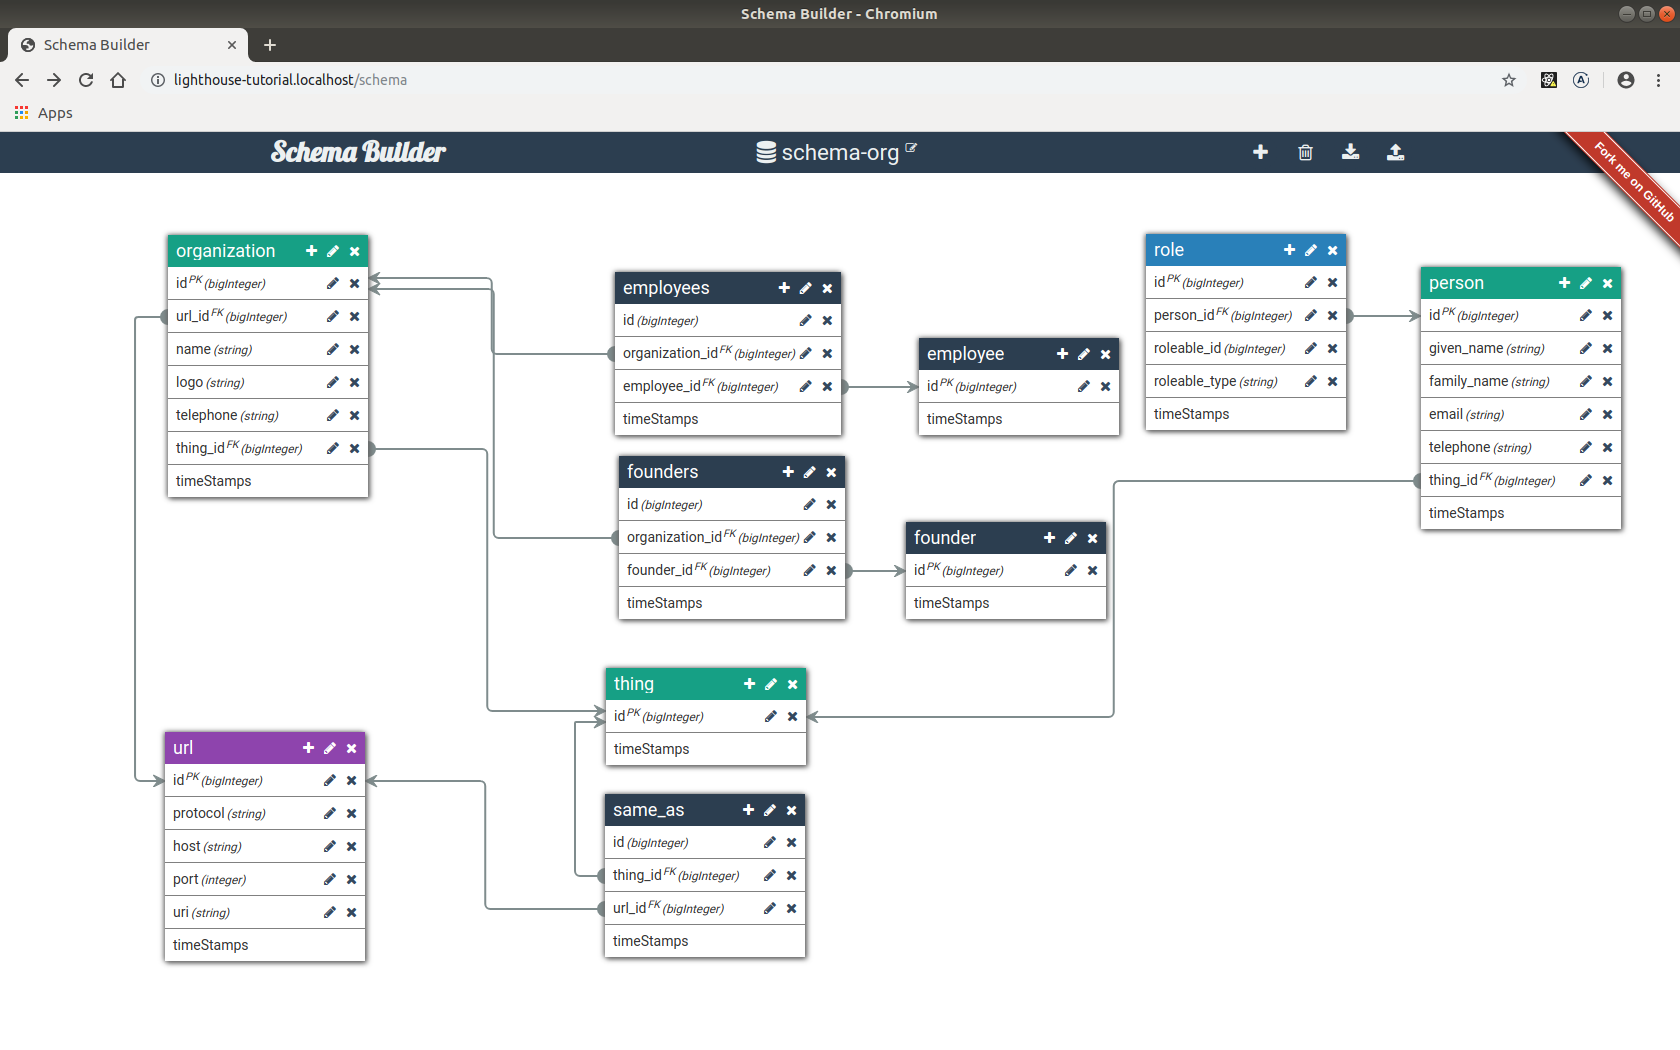
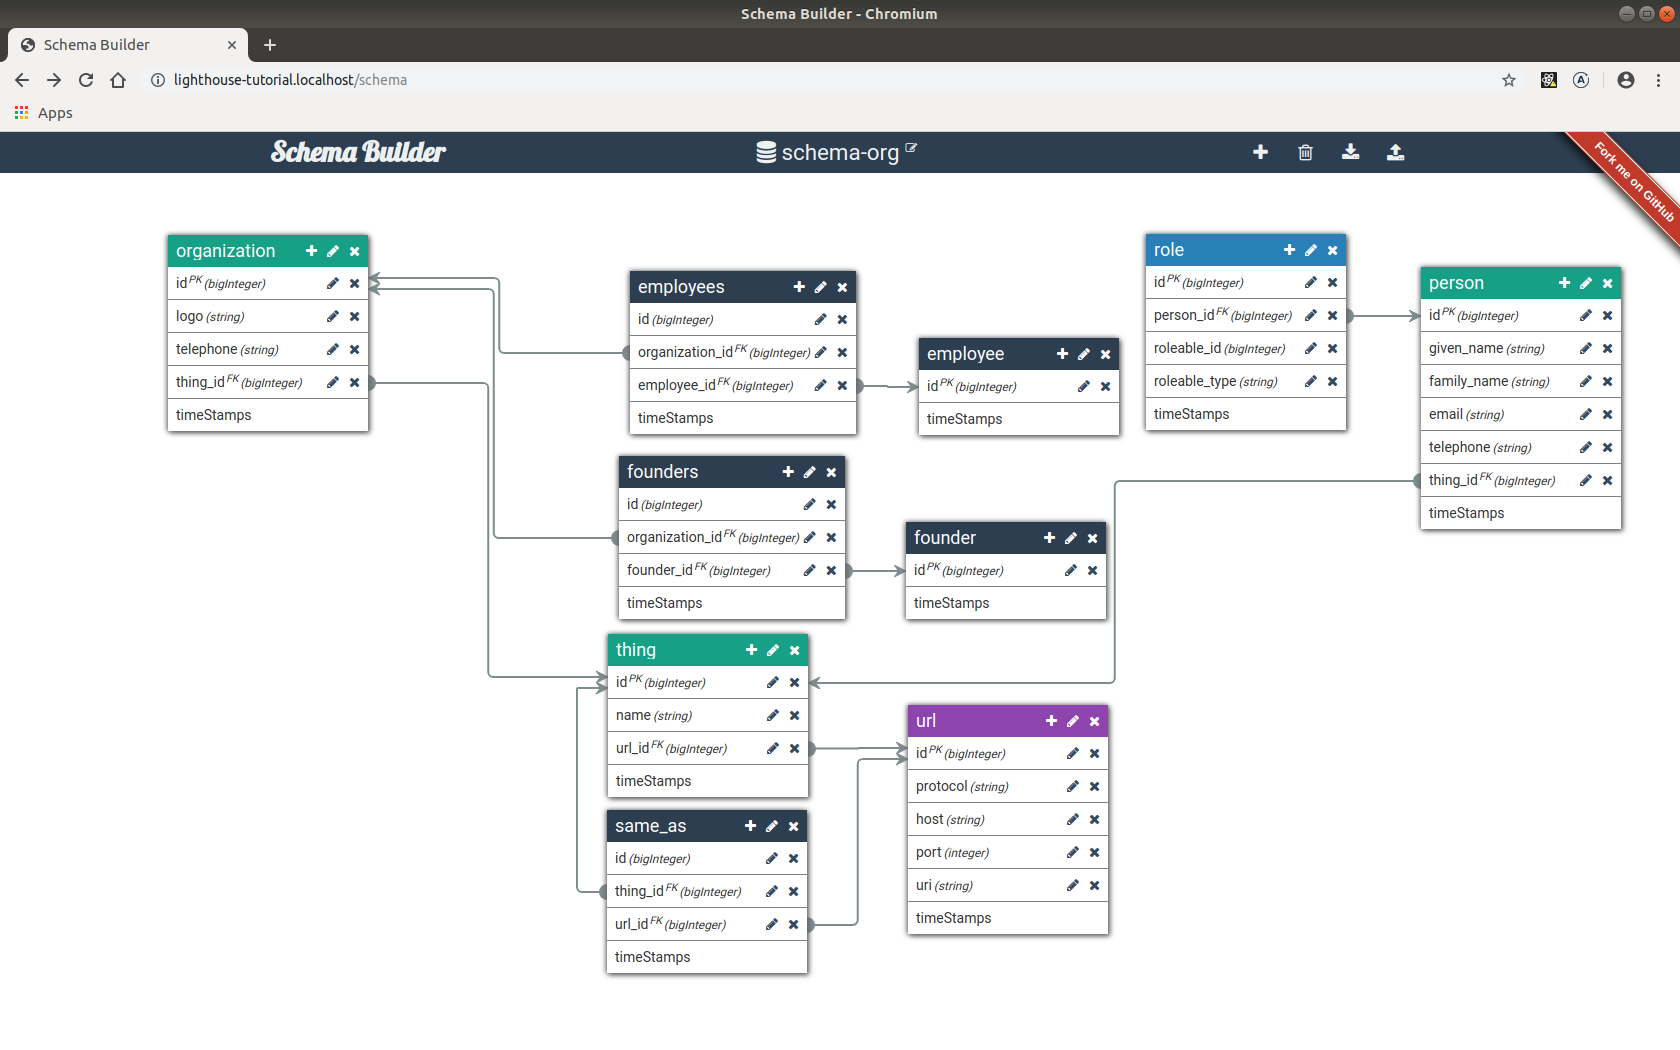
name and url move to thing

diff --git a/app/Models/Organization.php b/app/Models/Organization.php
@@ -19,13 +19,13 @@ class Organization extends \App\Models\Base\Organization
 
 	public function getSchemaOrgSchemaAttribute()
 	{
-		$url = $this->url ? $this->url->name : null;
+		$url = $this->thing->url ? $this->thing->url->name : null;
 
 		$organization = Schema::Organization()
 			->setProperty('url', isset($url) ? $url : null)
 			->sameAs($this->getSchemaOrgsameAs())
 			->setProperty('@id', isset($url) ? $url . '#organization' : null)
-			->name($this->name)
+			->name($this->thing->name)
 			->setProperty('logo', $this->logo ? $this->logo : null)
 			->setProperty('telephone', $this->telephone ? $this->telephone : null)
 			->employees($this->getSchemaOrgPersonsHavingRole('employees'))
